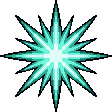
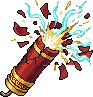
feat(sparks): regen quick_burst as a firecracker + golden-standard recipe
Quick Burst is now a concrete Chinese firecracker (爆竹) bursting with qi (cand_1 tube + cand_3 explosion, manually merged) instead of an abstract starburst. gen_ui.py: SPARK_S now encodes the golden standard (concrete subject, rich saturated multi-tone colour, alive with qi energy, detailed-yet-clean); spark style anchor dropped (muted warm sparks); per-element no_style_ref hook. v1 firecracker-less starburst preserved in _design/spark-icons-v1/. Earlier sparks (surging/steady stream, sword, sprout, lotus, koi) still pending redo to this bar.

diff --git a/scripts/gen_ui.py b/scripts/gen_ui.py
@@ -653,28 +653,29 @@ ELEMENTS = {
 
     "spark_quick_burst": {
         "size": (128, 128),
+        "no_style_ref": True,  # golden-standard recipe — full colour, no anchor
         "desc": (
-            "A pixel art icon of a QI SPARK for a xianxia cultivation game — Quick Burst, "
-            "an instant explosive burst of qi. Standalone glowing energy form, centred, "
-            "filling the middle 75-85% of the image. NO frame, NO ring, NO badge, NO disc "
-            "behind it — just the qi burst itself on a fully transparent background. "
+            "A pixel art icon of a QI SPARK — Quick Burst: a firecracker of qi, an instant "
+            "explosive release. Standalone glowing form on a transparent background, centred, "
+            "filling 80-90%. NO frame, NO ring, NO disc. "
             ""
-            "FORM: a sudden explosive starburst of living qi. A small intensely bright "
-            "white-cyan core (~12 px) at the centre, from which sharp angular qi bolts blast "
-            "outward — eight long thin triangular spikes (N/NE/E/SE/S/SW/W/NW) and eight "
-            "shorter secondary bolts between them, for a 16-point flash. The bolts are bright "
-            "cyan near the core fading to deeper teal at the tips. A single faint expanding "
-            "shockwave ring of cyan sits partway out. A soft 1-2 px cyan halo bleeds off the "
-            "bolts so the whole form reads as luminous and radiant, captured at the instant "
-            "of release. "
+            "FORM: a single Chinese FIRECRACKER (爆竹) caught at the instant it bursts. The "
+            "firecracker body is an upright deep-RED paper-wrapped tube with bright GOLD "
+            "binding bands and a small gold cap, a short fuse at the top — detailed and solid, "
+            "tilted slightly. From its bursting end ERUPTS a brilliant explosion of QI: a "
+            "white-hot core blasting into sharp white-cyan-and-gold light bolts, with "
+            "amber-gold sparks, embers and a few torn red-paper fragments flying outward. A "
+            "soft luminous gold-cyan aura. Festive, sudden, alive with explosive energy. "
             ""
-            "Treatment: thick charcoal outline (#111) around the bolts and core, flat colour "
-            "fills, no gradients — build the glow with 3-4 colour bands (white-cyan core / "
-            "bright cyan / mid teal / faint halo). Bold high-contrast silhouette. "
+            "Treatment: thick clean charcoal outline (#111), flat colour fills in clean bands "
+            "with STRONG light-to-dark contrast (sculpted depth), NO dithering, NO stray "
+            "pixels, NO noise. Vibrant, saturated, richly detailed. Bold high-contrast "
+            "silhouette readable when small. "
             ""
-            "Palette: white-cyan core (#e8ffff), bright pale cyan (#7adcc4), mid teal "
-            "(#2f9c86), deep teal shadow (#15564a), faint cyan halo at low alpha, charcoal "
-            "outline (#111). NO jade-green ring, NO bronze frame, NO badge, no red, no purple. "
+            "Palette: deep red firecracker (#c0302a), darker red shadow (#7a1818), bright gold "
+            "bands (#f5cf5a), amber sparks (#f0a030), white-hot qi core (#fff4c8), white-cyan "
+            "bolts (#e8ffff / #7adcc4), charcoal outline (#111). Rich — red + gold + amber + "
+            "cyan-white. NO frame, NO badge, no purple, no green. "
             f"{SPARK_S}"
         ),
     },
